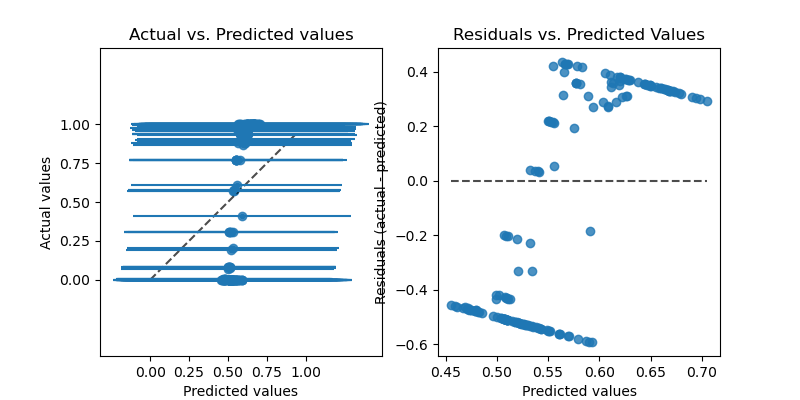
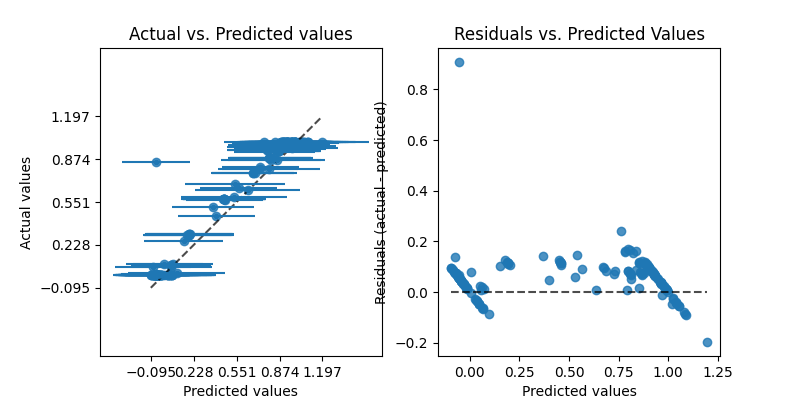
setting epochs to 50K

diff --git a/neuralnet/training04.py b/neuralnet/training04.py
@@ -1,32 +1,18 @@
-# coding: utf-8
+#!/apps/software/Anaconda3/2022.05/envs/tensorflow-gpu/bin/python
 
-# In[1]:
-
-
-import tensorflow as tf
 from tensorflow import keras
 from tensorflow.keras import layers
-
-# from tensorflow.keras.layers import Dense
-# from tensorflow.keras.models import Sequential
-import numpy as np
-import pandas as pd
-import matplotlib.pyplot as plt
 from sklearn.model_selection import train_test_split, KFold
 from sklearn.preprocessing import StandardScaler, MinMaxScaler, PowerTransformer
 from pickle import dump
-import sys
+from sklearn.metrics import PredictionErrorDisplay
+import numpy as np
+import pandas as pd
+import matplotlib.pyplot as plt
+import tensorflow as tf
 import evidential_deep_learning as edl
 
-# import torch
-# from alig.tf import AliG
-from sklearn.metrics import PredictionErrorDisplay
-
 print(f"Running Tensoflow {tf.__version__}")
-
-
-# In[2]:
-
 
 # Load data
 BTSettl = pd.read_csv("../data/BT-Settl_all_Myr_Gaia+2MASS+PanSTARRS.csv")
@@ -71,7 +57,7 @@ inputs = layers.Input(shape=(2,), name="Age_Mass")
 dense = layers.Dense(
     units=64,
     activation="relu",
-    kernel_initializer=keras.initializers.HeNormal(),
+    kernel_initializer=keras.initializers.he_normal(),
     # kernel_regularizer = keras.regularizers.L2(0.01),
     bias_initializer=keras.initializers.Zeros(),
     name="HL1",
@@ -79,7 +65,7 @@ dense = layers.Dense(
 dense = layers.Dense(
     units=64,
     activation="relu",
-    kernel_initializer=keras.initializers.HeNormal(),
+    kernel_initializer=keras.initializers.he_normal(),
     # kernel_regularizer = keras.regularizers.L2(0.01),
     bias_initializer=keras.initializers.Zeros(),
     name="HL2",
@@ -87,7 +73,7 @@ dense = layers.Dense(
 dense = layers.Dense(
     units=64,
     activation="relu",
-    kernel_initializer=keras.initializers.HeNormal(),
+    kernel_initializer=keras.initializers.he_normal(),
     # kernel_regularizer = keras.regularizers.L2(0.01),
     bias_initializer=keras.initializers.Zeros(),
     name="HL3",
@@ -111,8 +97,6 @@ Photometry = edl.layers.DenseNormalGamma(11)(dense)  # Evidential distribution!
 #
 optimizer = tf.keras.optimizers.SGD(learning_rate=0.01)
 
-# # In[6]:
-
 # # Define Huber loss
 # huber = keras.losses.Huber()
 #
@@ -130,8 +114,6 @@ mse = keras.losses.MeanSquaredError()
 #     return alpha * mse(y_true, y_pred)
 #
 #
-# # In[7]:
-#
 # edl_loss = edl.losses.EvidentialRegression  # Evidential loss!
 # Custom loss function to handle the custom regularizer coefficient
 
@@ -141,26 +123,20 @@ def EvidentialRegressionLoss(true, pred):
 
 
 # Set metrics
-RMSE = keras.metrics.RootMeanSquaredError()
-#
-#
-# # In[8]:
-#
-#
-# # Instanciate and compile model
+# RMSE = keras.metrics.RootMeanSquaredError()
+
+# Instanciate and compile model
 model = keras.Model(inputs=inputs, outputs=[Li, Photometry], name="BTSettl")
 model.compile(
     optimizer=optimizer,
     loss=EvidentialRegressionLoss,
 )
-#
-
 # print(model.summary())
 
 history = model.fit(
     X_train,
     [Li_train, Pho_train],
-    epochs=200,
+    epochs=50000,
     batch_size=16,
     verbose=0,
 )
